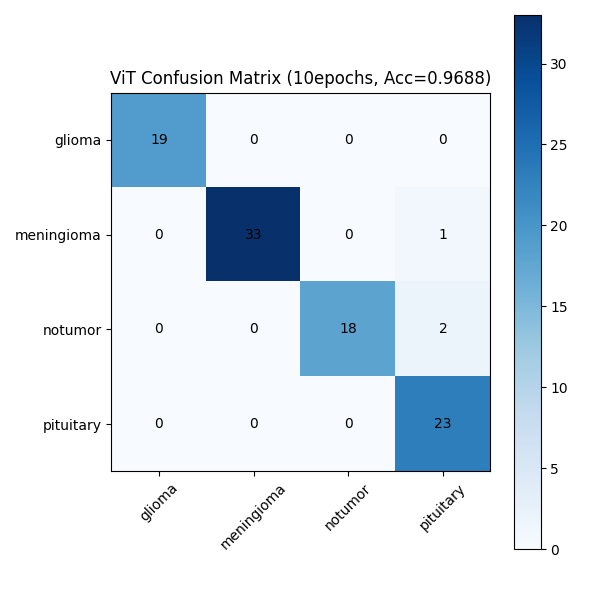
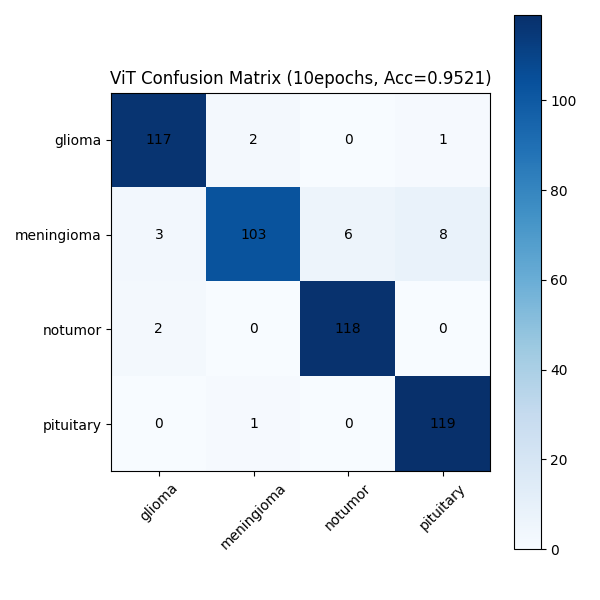
modified train + test, added correct confusion matrixes

diff --git a/ViT/train_vit.py b/ViT/train_vit.py
@@ -1,5 +1,6 @@
 # ViT/train_vit.py
 
+# ====== Imports ======
 import torch
 import torch.nn as nn
 from torch.utils.data import DataLoader
@@ -11,7 +12,7 @@ from tqdm import tqdm
 import numpy as np
 import random
 
-# Set seed for reproducibility
+# ====== Fixed Seed for Reproducibility ======
 def set_seed(seed=42):
     torch.manual_seed(seed)
     random.seed(seed)
@@ -22,22 +23,23 @@ def set_seed(seed=42):
 set_seed(42)
 
 # ====== Configuration ======
-num_epochs = 10
+num_epochs = 55 
 lr = 2e-5
 batch_size = 8
 results_dir = "./ViT/results"
 os.makedirs(results_dir, exist_ok=True)
 model_name_suffix = f"{num_epochs}epochs"
 
-# ====== Device ======
+# ====== Device Set-up (to use GPU if Available) ======
 device = torch.device("cuda" if torch.cuda.is_available() else "cpu")
 print(f"[INFO] Using device: {device}")
 
-# ====== Data ======
+# ====== Dataset & Transforms ======
 data_dir = "./dataset_11"
 classes = ['glioma', 'meningioma', 'notumor', 'pituitary']
 num_classes = len(classes)
 
+# Transform using ImageNet Normalization for ViT
 transform = transforms.Compose([
     transforms.Resize((224, 224)),
     transforms.RandomHorizontalFlip(),
@@ -46,6 +48,7 @@ transform = transforms.Compose([
     transforms.Normalize(mean=[0.485, 0.456, 0.406], std=[0.229, 0.224, 0.225])
 ])
 
+# Load Dataset and Split into Train/Validation sets
 dataset = datasets.ImageFolder(root=data_dir, transform=transform)
 train_size = int(0.8 * len(dataset))
 val_size = len(dataset) - train_size
@@ -54,18 +57,25 @@ train_ds, val_ds = torch.utils.data.random_split(dataset, [train_size, val_size]
 train_loader = DataLoader(train_ds, batch_size=batch_size, shuffle=True)
 val_loader = DataLoader(val_ds, batch_size=batch_size, shuffle=False)
 
-# ====== Model ======
+# ====== Load Pretrained ViT Model ======
 model = ViTForImageClassification.from_pretrained(
     "google/vit-base-patch16-224-in21k",
     num_labels=num_classes
 )
 model.to(device)
 
-# ====== Optimizer & Loss ======
+# ====== Optimizer, Loss Function & Scheduler ======
 optimizer = torch.optim.AdamW(model.parameters(), lr=lr, weight_decay=0.01)
 criterion = nn.CrossEntropyLoss()
+from torch.optim.lr_scheduler import StepLR
+scheduler = StepLR(optimizer, step_size=5, gamma=0.1)
 
-# ====== Training ======
+# ====== Early Stopping Configuration ======
+patience = 10 # stop if accuracy does not improve for 10 consecutive epochs
+best_val_acc = 0.0
+patience_counter = 0
+
+# ====== Training Loop ======
 train_losses, val_losses = [], []
 train_accuracies, val_accuracies = [], []
 
@@ -74,33 +84,33 @@ for epoch in range(num_epochs):
     running_loss = 0.0
     correct = 0
     total = 0
-    
+
     for imgs, labels in tqdm(train_loader, desc=f"[Epoch {epoch+1}/{num_epochs}] Training"):
         imgs, labels = imgs.to(device), labels.to(device)
-        
+
         outputs = model(pixel_values=imgs).logits
         loss = criterion(outputs, labels)
-        
+
         optimizer.zero_grad()
         loss.backward()
         optimizer.step()
-        
+
         running_loss += loss.item()
         preds = outputs.argmax(dim=1)
         correct += (preds == labels).sum().item()
         total += labels.size(0)
-    
+
     avg_train_loss = running_loss / len(train_loader)
     train_accuracy = correct / total
     train_losses.append(avg_train_loss)
     train_accuracies.append(train_accuracy)
-    
+
     # ====== Validation ======
     model.eval()
     val_running_loss = 0.0
     val_correct = 0
     val_total = 0
-    
+
     with torch.no_grad():
         for imgs, labels in val_loader:
             imgs, labels = imgs.to(device), labels.to(device)
@@ -110,19 +120,35 @@ for epoch in range(num_epochs):
             preds = outputs.argmax(dim=1)
             val_correct += (preds == labels).sum().item()
             val_total += labels.size(0)
-    
+
     avg_val_loss = val_running_loss / len(val_loader)
     val_accuracy = val_correct / val_total
     val_losses.append(avg_val_loss)
     val_accuracies.append(val_accuracy)
-    
+
     print(f"[Epoch {epoch+1}] Train Loss: {avg_train_loss:.4f}, Acc: {train_accuracy:.4f} | "
           f"Val Loss: {avg_val_loss:.4f}, Acc: {val_accuracy:.4f}")
 
-# ====== Save model ======
-model_path = os.path.join(results_dir, f"vit_model_{model_name_suffix}.pth")
-torch.save(model.state_dict(), model_path)
-print(f"[INFO] Model saved to {model_path}")
+    # ====== Check for Best Model ======
+    if val_accuracy > best_val_acc:
+        best_val_acc = val_accuracy
+        patience_counter = 0
+        # Save best model
+        torch.save(model.state_dict(), os.path.join(results_dir, f"vit_model_best.pth"))
+        print(f"[INFO] New best model saved at epoch {epoch+1} with val acc {val_accuracy:.4f}")
+    else:
+        patience_counter += 1
+        if patience_counter >= patience:
+            print("[INFO] Early stopping triggered.")
+            break
+
+    # Step LR Scheduler
+    scheduler.step()
+
+# ====== Save Final Model (even if not best) ======
+final_model_path = os.path.join(results_dir, f"vit_model_{model_name_suffix}.pth")
+torch.save(model.state_dict(), final_model_path)
+print(f"[INFO] Final model saved to {final_model_path}")
 
 # ====== Plot Loss Curve ======
 plt.figure()

diff --git a/ViT/test_vit.py b/ViT/test_vit.py
@@ -11,16 +11,18 @@ import matplotlib.pyplot as plt
 import numpy as np
 
 # ====== Configuration ======
-model_name_suffix = "50epochs"  # Change to 30epochs or 50epochs as needed
+model_name_suffix = "Best Model" 
 
 # ====== Device ======
 device = torch.device("cuda" if torch.cuda.is_available() else "cpu")
 print(f"[INFO] Using device: {device}")
 
 # ====== Paths ======
-data_dir = "./dataset_11"
+data_dir = "./test"
 results_dir = "./ViT/results"
-model_path = os.path.join(results_dir, f"vit_model_{model_name_suffix}.pth")
+# model_path = os.path.join(results_dir, f"vit_model_{model_name_suffix}.pth")
+model_path = os.path.join(results_dir, "vit_model_best.pth")
+
 
 # ====== Classes ======
 classes = ['glioma', 'meningioma', 'notumor', 'pituitary']
@@ -35,11 +37,8 @@ transform = transforms.Compose([
 ])
 
 # ====== Dataset ======
-dataset = datasets.ImageFolder(root=data_dir, transform=transform)
-train_size = int(0.8 * len(dataset))
-val_size = len(dataset) - train_size
-_, val_ds = torch.utils.data.random_split(dataset, [train_size, val_size])
-val_loader = DataLoader(val_ds, batch_size=8, shuffle=False)
+test_dataset = datasets.ImageFolder(root="./test", transform=transform)
+test_loader = DataLoader(test_dataset, batch_size=8, shuffle=False)
 
 # ====== Load Model ======
 model = ViTForImageClassification.from_pretrained(
@@ -54,7 +53,7 @@ model.eval()
 all_preds, all_labels = [], []
 
 with torch.no_grad():
-    for imgs, labels in val_loader:
+    for imgs, labels in test_loader:
         imgs, labels = imgs.to(device), labels.to(device)
         outputs = model(pixel_values=imgs).logits
         preds = torch.argmax(outputs, dim=1)
